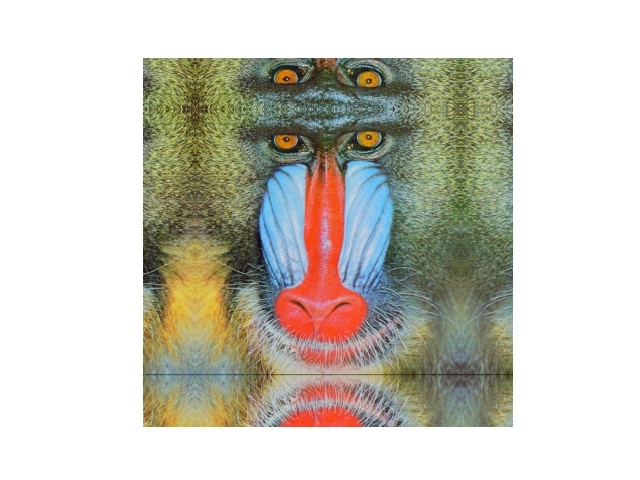
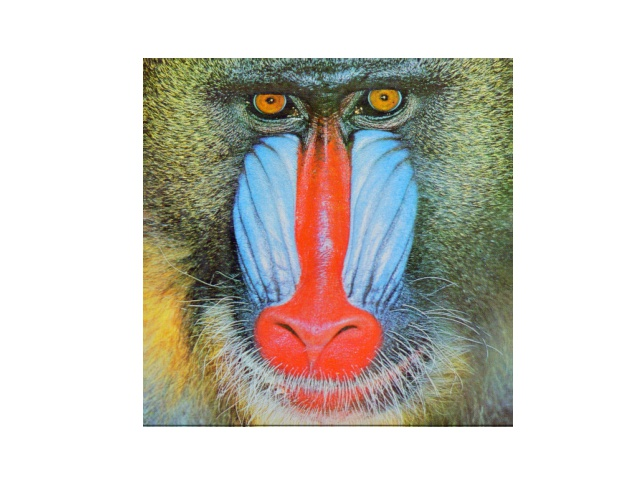
Implement convolve func

diff --git a/hw1/HW1_1.py b/hw1/HW1_1.py
@@ -3,6 +3,7 @@ import math
 import numpy as np
 from PIL import Image
 from matplotlib import pyplot as plt
+import math
 
 
 def reflect_padding(input_image, size):
@@ -13,28 +14,111 @@ def reflect_padding(input_image, size):
     Return:
         padded image (numpy array) -> 각각의 변에서 2개의 픽셀씩 패딩(0값) 생겨야함.
     """
+
+    def check_nearest_vertex(vertices, coordinate):
+        curr_x, curr_y = coordinate
+        min_len = math.inf
+        min_x, min_y = -1, -1
+        for x, y in vertices:
+            dist = (curr_x - x) ** 2 + (curr_y - y) ** 2
+            if min_len > dist:
+                min_len = dist
+                min_x, min_y = x, y
+        return min_x, min_y
+
+    def add_padding(img_2d, pad_size):
+        org_width, org_height = img_2d.shape
+        x_pad, y_pad = pad_size
+        new_img_width, new_img_height = org_width + 2 * x_pad, org_height + 2 * y_pad
+        new_img_2d = np.zeros((new_img_width, new_img_height), np.uint8)
+
+        # 새로운 행렬에서 원래 행렬의 좌표 경계점(배열의 인덱스)
+        origin_in_new_r_start = y_pad
+        origin_in_new_c_start = x_pad
+        origin_in_new_r_end = new_img_height - y_pad - 1
+        origin_in_new_c_end = new_img_width - x_pad - 1
+
+        new_img_2d[
+            origin_in_new_r_start : origin_in_new_r_end + 1,
+            origin_in_new_c_start : origin_in_new_c_end + 1,
+        ] = img_2d
+        vertices = [
+            (x, y)
+            for x in (origin_in_new_r_start, origin_in_new_r_end)
+            for y in (origin_in_new_c_start, origin_in_new_c_end)
+        ]
+        # 선대칭 4번, 점 대칭 2번
+        padding_rows = [
+            y
+            for y in [
+                *range(origin_in_new_r_start),
+                *range(origin_in_new_r_end + 1, new_img_height),
+            ]
+        ]
+        padding_cols = [
+            x
+            for x in [
+                *range(origin_in_new_c_start),
+                *range(origin_in_new_c_end + 1, new_img_width),
+            ]
+        ]
+        for new_r_idx, _ in enumerate(new_img_2d):
+            if new_r_idx in padding_rows:
+                # 선대칭 기준이 되는 row
+                ref_row = (
+                    origin_in_new_r_start
+                    if new_r_idx < origin_in_new_r_start
+                    else origin_in_new_r_end
+                )
+                new_img_2d[
+                    new_r_idx, origin_in_new_c_start : origin_in_new_c_end + 1
+                ] = new_img_2d[
+                    2 * ref_row - new_r_idx,
+                    origin_in_new_c_start : origin_in_new_c_end + 1,
+                ]
+
+                for new_c_idx in padding_cols:
+                    near_x, near_y = check_nearest_vertex(
+                        vertices, (new_r_idx, new_c_idx)
+                    )
+                    new_img_2d[new_r_idx, new_c_idx] = new_img_2d[
+                        2 * near_x - new_r_idx,
+                        2 * near_y - new_c_idx,
+                    ]
+            else:
+                for new_c_idx in padding_cols:
+                    ref_col = (
+                        origin_in_new_c_start
+                        if new_c_idx < origin_in_new_c_start
+                        else origin_in_new_c_end
+                    )
+                    new_img_2d[new_r_idx, new_c_idx] = new_img_2d[
+                        new_r_idx,
+                        2 * ref_col - new_c_idx,
+                    ]
+
+        return new_img_2d
+
     # image matrix size (x, y, z)
-    img_x_size, img_y_size, _ = image.shape
+    img_x_size, img_y_size, img_channels = input_image.shape
     # kernel size and padding size
     x, y = size
     x_pad_size = x // 2
     y_pad_size = y // 2
+
     # RGB channels
     r = input_image[:, :, 0]
     g = input_image[:, :, 1]
     b = input_image[:, :, 2]
-
-    # add padding each channels
-    r = np.pad(r, ((x_pad_size, x_pad_size), (y_pad_size, y_pad_size)), "reflect")
-    g = np.pad(g, ((x_pad_size, x_pad_size), (y_pad_size, y_pad_size)), "reflect")
-    b = np.pad(b, ((x_pad_size, x_pad_size), (y_pad_size, y_pad_size)), "reflect")
+    rgb_list = [r, g, b]
 
     # new numpy array
     new_img = np.zeros(
         (img_x_size + 2 * x_pad_size, img_y_size + 2 * y_pad_size, 3), np.uint8
     )
 
-    new_img[:, :, 0], new_img[:, :, 1], new_img[:, :, 2] = r, g, b
+    for i in range(img_channels):
+        new_img[:, :, i] = add_padding(rgb_list[i], (x_pad_size, y_pad_size))
 
     return new_img
 
@@ -42,8 +126,8 @@ def reflect_padding(input_image, size):
 def convolve(input_image, Kernel):
     """
     Args:
-        input_image (numpy array): input array
-        Kernel (numpy array): kernel shape of (height, width)
+        input_image (numpy array): input array == 패딩 없는 이미지
+        Kernel (numpy array): kernel shape of (height, width)  -> 실제 커널 행렬
     Return:
         convolved image (numpy array)
     """
@@ -53,7 +137,47 @@ def convolve(input_image, Kernel):
     # shape of input_image: (height, width, channel)
     # shape of Kernel: (height, width)
     # Make sure that the same Kernel be applied to each of the channels of the input_image
-    return
+
+    reflected_img = reflect_padding(input_image, Kernel.shape)
+
+    # original image matrix size (x, y, z)
+    img_width, img_height, img_channels = image.shape
+    # padded img size
+    # pad_img_width, pad_img_height, pad_img_channels = reflected_img.shape
+    # kernel size and padding size
+    x_kernel, y_kernel = Kernel.shape
+    x_pad_size = x_kernel // 2
+    y_pad_size = y_kernel // 2
+
+    origin_width, origin_height, _ = input_image.shape
+    out_matrix = np.zeros((origin_width, origin_height, img_channels))
+
+    fliped_kernel = np.flip(Kernel)
+    for i in range(img_channels):
+        channel = reflected_img[:, :, i]
+        origin_x, origin_y = 0, 0
+        tmp_out = []
+        while origin_x < origin_width:
+            reflected_x, reflected_y = origin_x + x_pad_size, origin_y + y_pad_size
+            # print(origin_x, origin_y, reflected_x, reflected_y)
+            pix_result = 0
+            for r in range(-x_pad_size, x_pad_size + 1):
+                for c in range(-y_pad_size, y_pad_size + 1):
+                    # print(r, c)
+                    pix_result += (
+                        channel[reflected_x + r, reflected_y + c]
+                        * fliped_kernel[r + x_pad_size, c + y_pad_size]
+                    )
+            tmp_out.append(pix_result)
+            origin_y += 1
+            if origin_y >= img_width:
+                origin_y = 0
+                origin_x += 1
+            if origin_x >= img_height:
+                out_matrix[:, :, i] = np.array(tmp_out).reshape(img_width, img_height)
+                break
+
+    return out_matrix
 
 
 def median_filter(input_image, size):
@@ -90,8 +214,16 @@ if __name__ == "__main__":
     image = np.asarray(
         Image.open(os.path.join(os.getcwd(), "images", "baboon.jpeg")).convert("RGB")
     )
-    # image = np.asarray(Image.open(os.path.join('images', 'gaussian_noise.jpeg')).convert('RGB'))
-    # image = np.asarray(Image.open(os.path.join('images', 'salt_and_pepper_noise.jpeg')).convert('RGB'))
+    image_gaussian_noise = np.asarray(
+        Image.open(os.path.join(os.getcwd(), "images", "gaussian_noise.jpeg")).convert(
+            "RGB"
+        )
+    )
+    image_pepper_noise = np.asarray(
+        Image.open(
+            os.path.join(os.getcwd(), "images", "salt_and_pepper_noise.jpeg")
+        ).convert("RGB")
+    )
 
     logdir = os.path.join(os.getcwd(), "results", "HW1_1")
     if not os.path.exists(logdir):
@@ -100,7 +232,7 @@ if __name__ == "__main__":
     kernel_1 = np.ones((5, 5)) / 25.0
     sigmax, sigmay = 5, 5
     ret = reflect_padding(image.copy(), kernel_1.shape)
-
+    print(ret.shape)
     if ret is not None:
         plt.figure()
         plt.imshow(ret.astype(np.uint8))
@@ -116,18 +248,18 @@ if __name__ == "__main__":
         plt.savefig(os.path.join(logdir, "convolve.jpeg"))
         plt.show()
 
-    ret = median_filter(image.copy(), kernel_1.shape)
-    if ret is not None:
-        plt.figure()
-        plt.imshow(ret.astype(np.uint8))
-        plt.axis("off")
-        plt.savefig(os.path.join(logdir, "median.jpeg"))
-        plt.show()
+    # ret = median_filter(image.copy(), kernel_1.shape)
+    # if ret is not None:
+    #     plt.figure()
+    #     plt.imshow(ret.astype(np.uint8))
+    #     plt.axis("off")
+    #     plt.savefig(os.path.join(logdir, "median.jpeg"))
+    #     plt.show()
 
-    ret = gaussian_filter(image.copy(), kernel_1.shape, sigmax, sigmay)
-    if ret is not None:
-        plt.figure()
-        plt.imshow(ret.astype(np.uint8))
-        plt.axis("off")
-        plt.savefig(os.path.join(logdir, "gaussian.jpeg"))
-        plt.show()
+    # ret = gaussian_filter(image.copy(), kernel_1.shape, sigmax, sigmay)
+    # if ret is not None:
+    #     plt.figure()
+    #     plt.imshow(ret.astype(np.uint8))
+    #     plt.axis("off")
+    #     plt.savefig(os.path.join(logdir, "gaussian.jpeg"))
+    #     plt.show()
